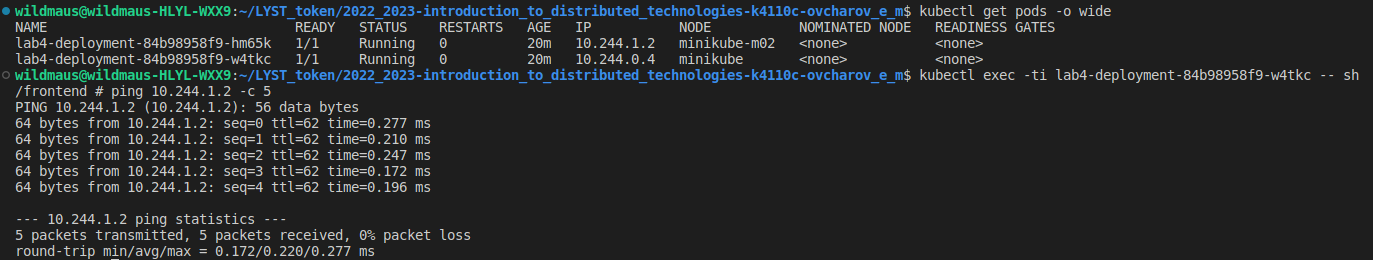
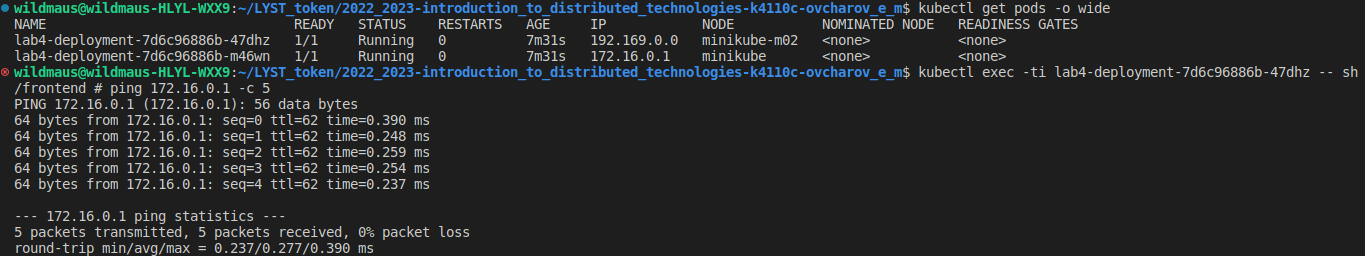
lab4

Changed region(s): [[0.0, 0.0, 1.0, 0.75], [0.0, 0.8125, 0.3385, 1.0]]

diff --git a/lab4/lab4_report.md b/lab4/lab4_report.md
@@ -9,7 +9,6 @@ Date of create: 31.10.2022
 Date of finished: 
 ___
 ## Схема организации
-Описание    
 ![scheme](./images/scheme.png)    
 ___
 ## Скриншоты
@@ -47,15 +46,38 @@ kubectl label nodes minikube-m02 rack=1
 ```bash
 calicoctl create -f  - < lab4-ippool.yaml
 ```
-![ip_pools](./images/ip_pools.png)    
+![ippools](./images/ippools.png)    
 ### 3. Deployment
 Аналогично lab2 создадал service типа `LoadBalancer`. `Container name` и `Container IP` изменяются, так как сервис распределяет нагрузку между двумя репликами. При этом по 3ей цифре IP можно понять на реплику какой "стойки" был направлен запрос.    
 ![res1](./images/res1.png)    
 ![res2](./images/res2.png)    
-### 4. Ping
+Заметил на скринах, что что-то не так. IP контейнеров не соответствуют назначенным пулам - проблема в том что calico не работает, долго разбирался как решить. В итоге нашел способ запустить все корректно. Для этого изменил конфигурацию `NetworkManager`, запустил minikube c другой версией kubernetes.
+### 4. Начиная все сначала
+Для запуска использую следующую команду:
+```bash
+minikube start --nodes 2 --container-runtime containerd --cni calico --kubernetes-version=v1.24.3
+```
+Что дало корректный результат:    
+![nodes_2](./images/nodes_2.png)    
+![calico_ok_2](./images/calico_ok_2.png)    
+Версия встроенной calico - v3.20.0, не нашел скприпта для calicoctl для этой версии. Для решения создал _calicoctl.yaml_ с нужной версией.    
+Теперь удалим существующий IP пул, добавим новые и проставим лейблы для узлов:    
+```bash
+kubectl apply -f calicoctl.yaml
+calicoctl delete ippools default-ipv4-ippool
+kubectl label nodes minikube rack=0
+kubectl label nodes minikube-m02 rack=1
+calicoctl create -f  - < lab4-ippool.yaml
+```
+![ippools_2](./images/ippools_2.png)    
+Аналогично шагу 3 создаем `deployment` и прокидываем порты:
+![res3](./images/res3.png)    
+![res4](./images/res4.png)    
+В результате `Container IP` соответствует выделенным пулам для нод: *172.16.0.1* для стойки 0, *192.169.0.0* для стойки 1 :pinched_fingers:. `Container name` изменяется, т.к. сервис распределяет нагрузку на разные поды.    
+### 5. Ping
 Зайдем в под и попингуем другой:
 ```bash
 kubectl get pods -o wide
-kubectl exec -ti lab4-deployment-84b98958f9-w4tkc -- sh
+kubectl exec -ti lab4-deployment-7d6c96886b-47dhz -- sh
 ```
 ![ping](./images/ping.png)    
